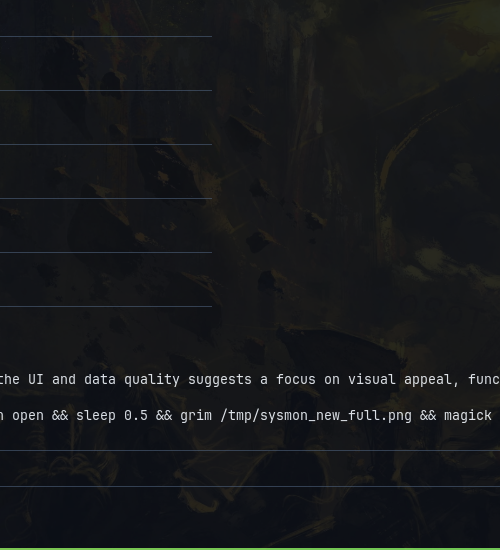
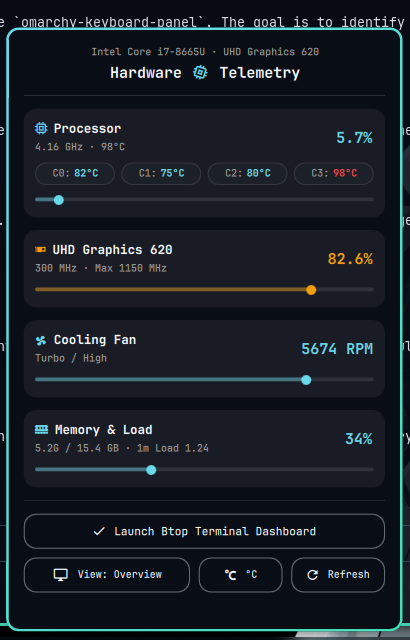
docs: add pixel-perfect cropped UI previews directly in README

diff --git a/README.md b/README.md
@@ -10,6 +10,20 @@ Designed to match the aesthetic and fluid animations of Omarchy's **World Clock*
 
 ---
 
+<p align="center">
+  <img src="assets/popup_preview.png" alt="Hardware Telemetry Dashboard" width="410" />
+  <br/>
+  <sub><b>Interactive Hardware Telemetry Dashboard</b> (Elsewhen-inspired design with per-core thermals & gliding thumbs)</sub>
+</p>
+
+<p align="center">
+  <img src="assets/preview.png" alt="Omarchy Status Bar Widget" />
+  <br/>
+  <sub><b>Omarchy Status Bar Widget</b> (Clean native <code>WidgetButton</code> with multi-metric view cycling)</sub>
+</p>
+
+---
+
 ## ⚡ Quick 1-Line Installation (For You and Others)
 
 To install on any Omarchy system, simply run:
